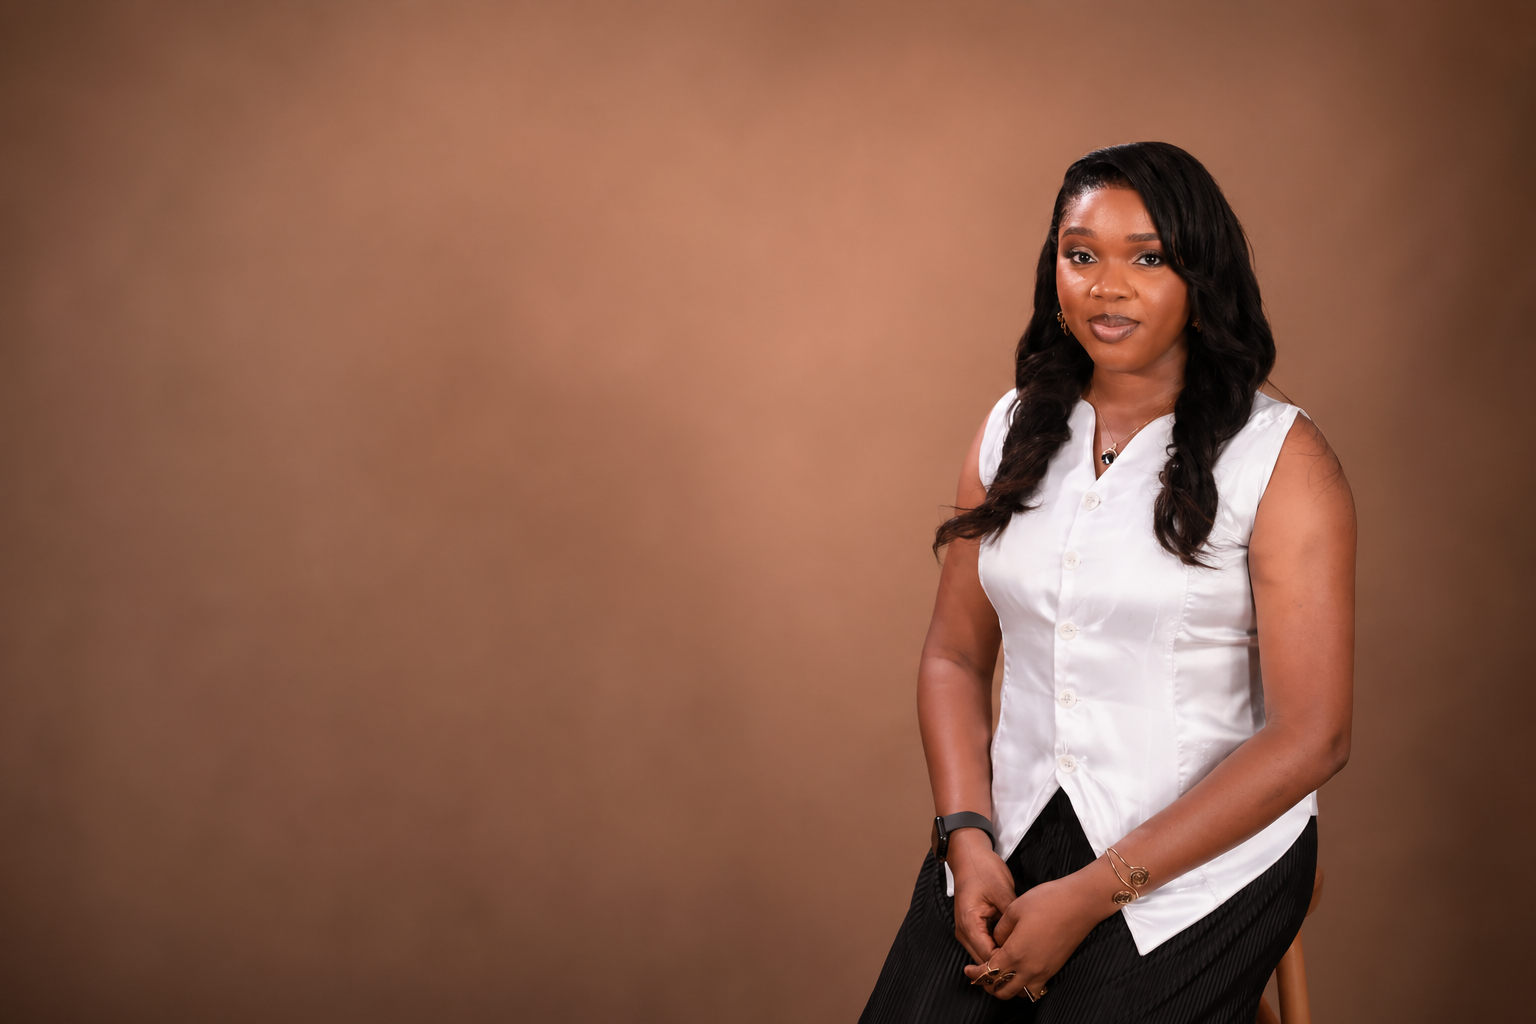
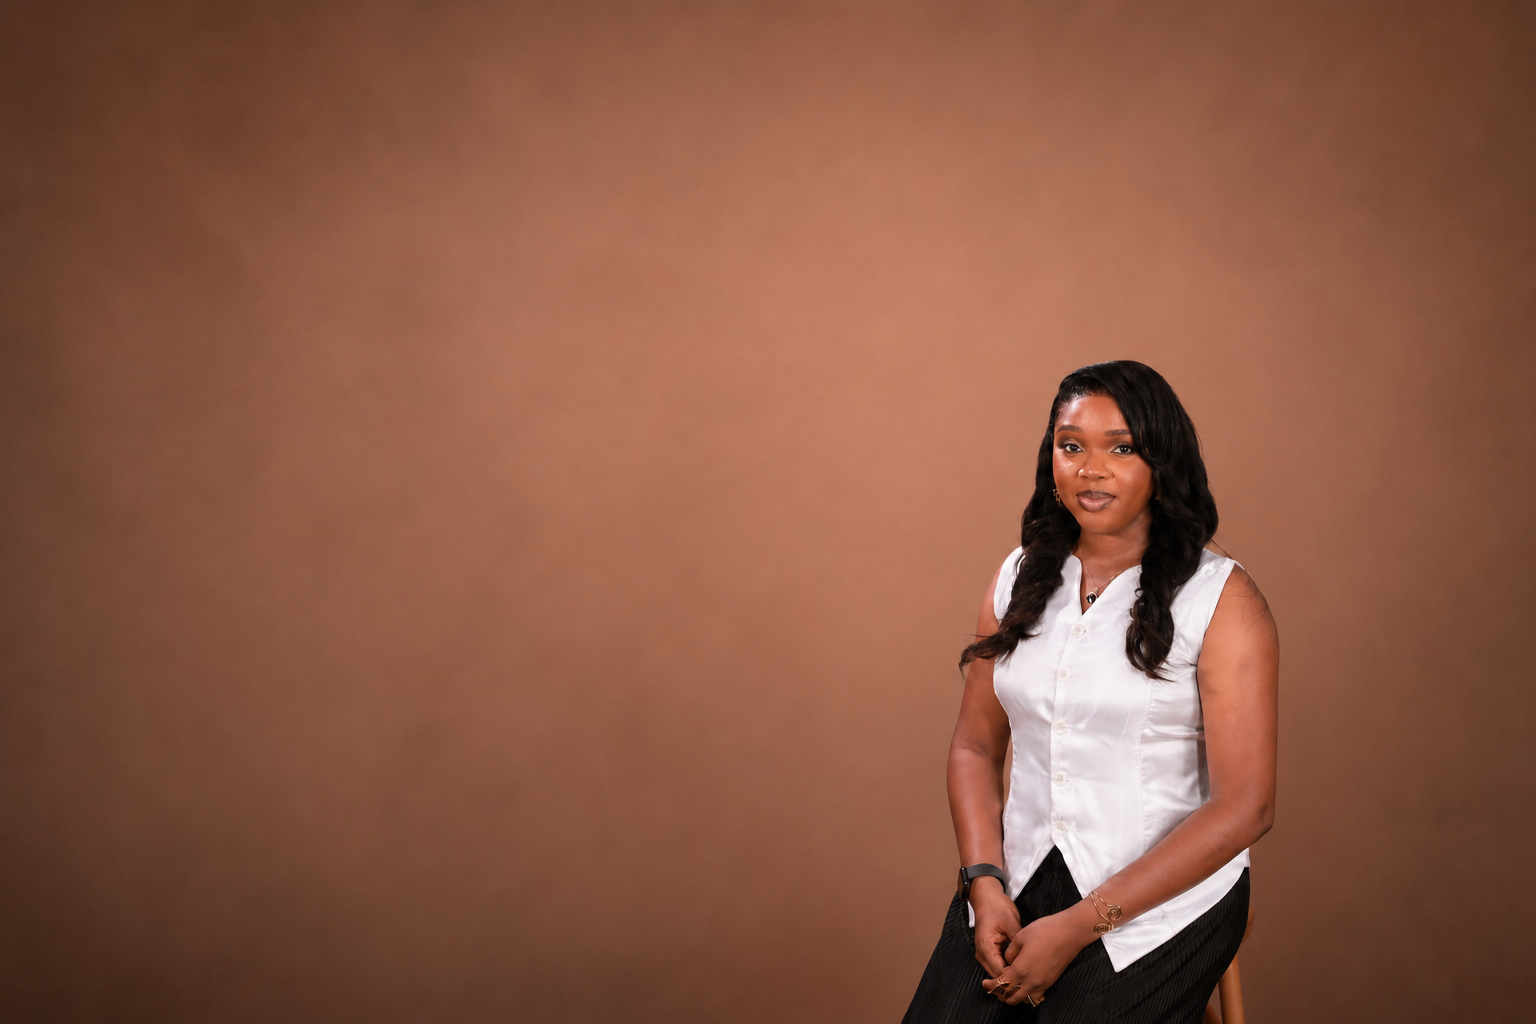
Fixed hero height

Changed region(s): [[0.5625, 0.125, 1.0, 1.0], [0.0625, 0.0, 0.4688, 0.2812], [0.9688, 0.625, 1.0, 0.7812]]

diff --git a/Ned/src/components/LandingPage.jsx b/Ned/src/components/LandingPage.jsx
@@ -210,12 +210,12 @@ export default function LandingPage() {
       </section> */}
 
       {/* HERO */}
-      <section className="relative bg-[#FAFAF9] min-h-[75vh] md:min-h-[85vh] pt-32 pb-24 flex items-center overflow-hidden">
+      <section className="relative bg-[#FAFAF9] min-h-[75vh] md:min-h-[85vh] pt-32 md:my-18 pb-24 flex items-center overflow-hidden">
         {/* BACKGROUND IMAGES CONTAINER */}
         <div className="absolute inset-0 w-full h-full">
           <img
             src={HeroImg}
-            className="w-full h-full md:w-1/2 md:ml-auto object-cover object-center opacity-90 max-md:hidden"
+            className="w-full h-full  md:ml-auto object-cover object-center  opacity-90 max-md:hidden"
             alt="Debbie Ned Hero"
           />
           <img